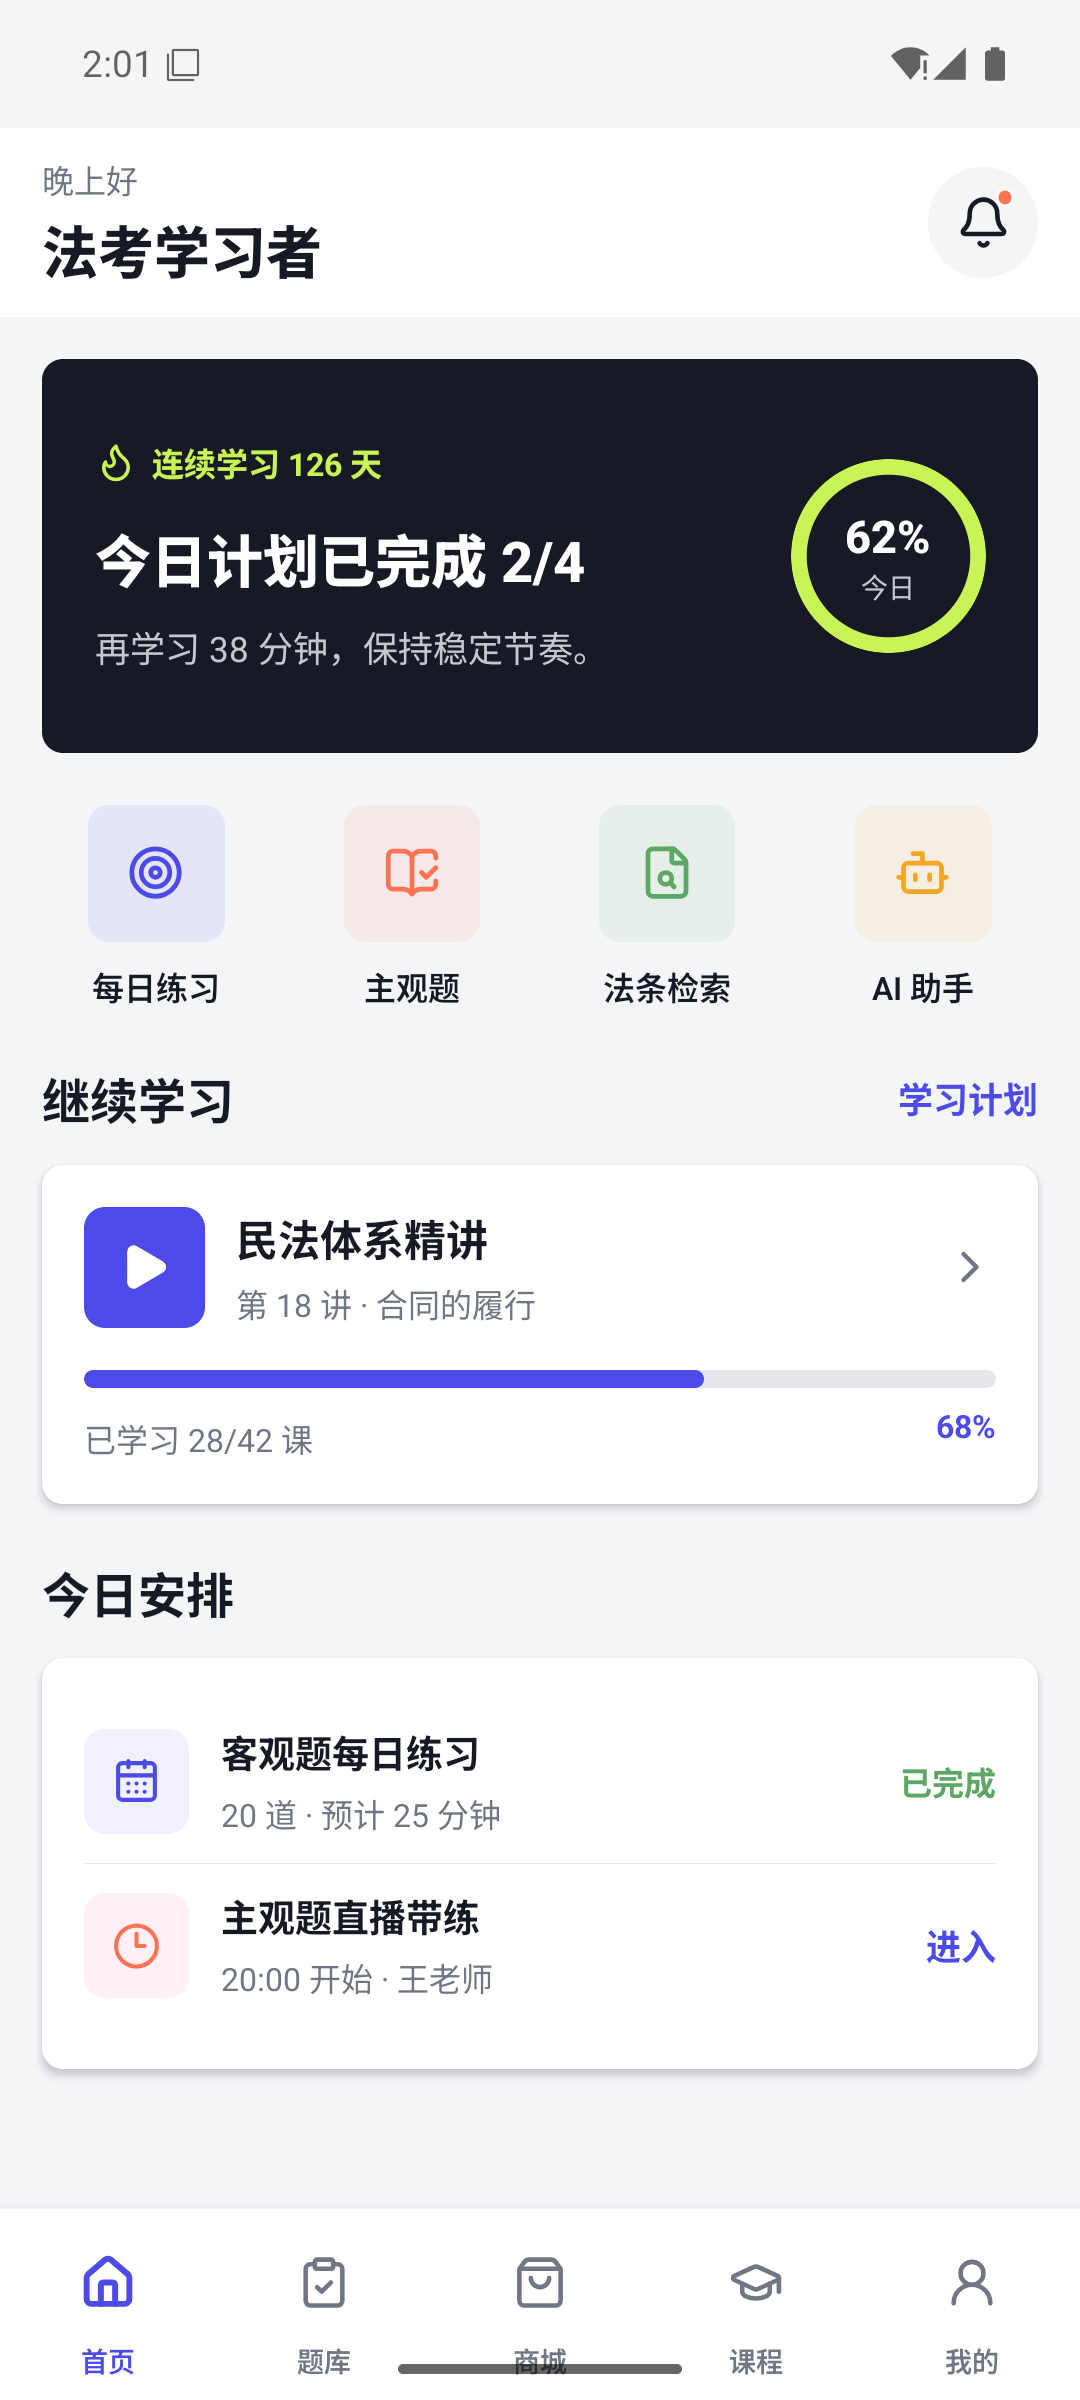
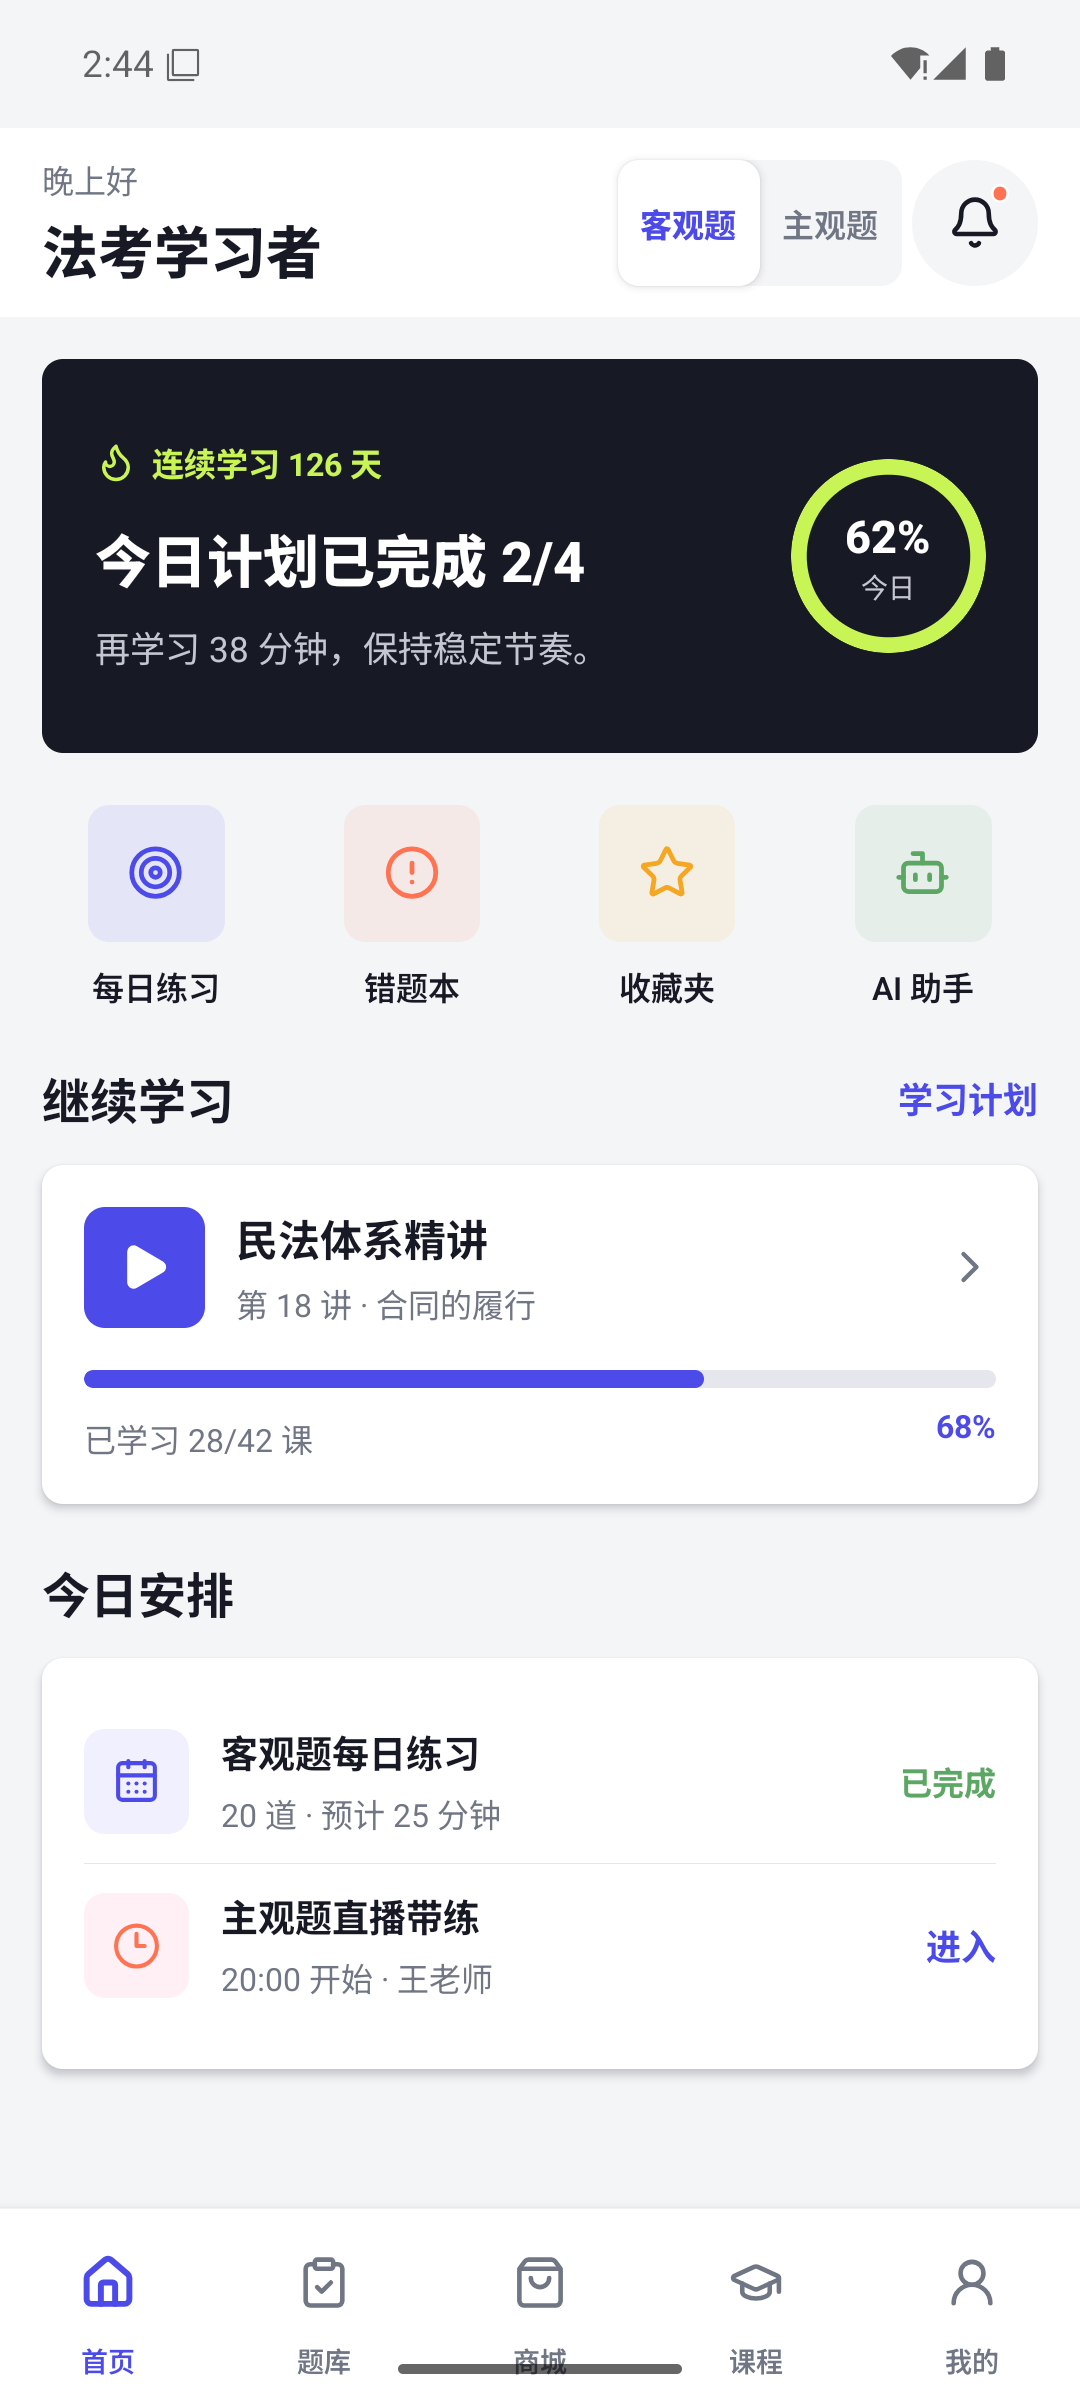
fix: restore home exam mode switch

diff --git a/debao-mobile/src/screens/tabs/HomeScreen.tsx b/debao-mobile/src/screens/tabs/HomeScreen.tsx
@@ -1,5 +1,7 @@
+import {useState} from 'react';
 import {Pressable, StyleSheet, Text, View, useWindowDimensions} from 'react-native';
 import {
+  AlertCircle,
   Bell,
   BookOpenCheck,
   Bot,
@@ -8,46 +10,78 @@ import {
   Clock3,
   FileSearch,
   Flame,
+  PenLine,
   Play,
+  Star,
   Target,
 } from 'lucide-react-native';
 import {useNavigation} from '@react-navigation/native';
 import type {NativeStackNavigationProp} from '@react-navigation/native-stack';
 import {AppScreen} from '@/components/AppScreen';
 import {Card, ProgressBar, SectionTitle} from '@/components/ui';
-import {colors, radius, spacing} from '@/theme';
+import {colors, radius, shadows, spacing} from '@/theme';
 import type {RootStackParamList} from '@/types/navigation';
 import {useAppStore} from '@/store/useAppStore';
 
 type Navigation = NativeStackNavigationProp<RootStackParamList>;
 
-const shortcuts = [
+const objectiveShortcuts = [
   {label: '每日练习', icon: Target, color: colors.brand, route: 'ObjectiveAnswer' as const},
-  {label: '主观题', icon: BookOpenCheck, color: colors.error, route: 'SubjectiveSelect' as const},
+  {label: '错题本', icon: AlertCircle, color: colors.error, route: 'MistakeBook' as const},
+  {label: '收藏夹', icon: Star, color: colors.warning, route: 'Favorites' as const},
+  {label: 'AI 助手', icon: Bot, color: colors.success, route: 'AIChat' as const},
+];
+
+const subjectiveShortcuts = [
+  {label: '主观题', icon: BookOpenCheck, color: colors.brand, route: 'SubjectiveSelect' as const},
   {label: '法条检索', icon: FileSearch, color: colors.success, route: 'LawSearch' as const},
+  {label: '批改服务', icon: PenLine, color: colors.error, route: 'Grading' as const},
   {label: 'AI 助手', icon: Bot, color: colors.warning, route: 'AIChat' as const},
 ];
 
 export default function HomeScreen() {
   const navigation = useNavigation<Navigation>();
+  const [channel, setChannel] = useState<'objective' | 'subjective'>('objective');
   const profile = useAppStore(state => state.profile);
   const {width} = useWindowDimensions();
   const compact = width < 360;
+  const shortcuts = channel === 'objective' ? objectiveShortcuts : subjectiveShortcuts;
 
   return (
     <AppScreen testID="home-screen">
       <View style={styles.header}>
-        <View>
+        <View style={styles.headerCopy}>
           <Text style={styles.eyebrow}>晚上好</Text>
-          <Text style={styles.greeting}>{profile.name}</Text>
+          <Text numberOfLines={1} style={[styles.greeting, compact && styles.greetingCompact]}>{profile.name}</Text>
         </View>
-        <Pressable
-          accessibilityLabel="消息通知"
-          onPress={() => navigation.navigate('Notifications')}
-          style={styles.notificationButton}>
-          <Bell size={21} color={colors.ink} />
-          <View style={styles.dot} />
-        </Pressable>
+        <View style={styles.headerActions}>
+          <View accessibilityRole="tablist" style={styles.modeSwitch}>
+            <Pressable
+              accessibilityRole="tab"
+              accessibilityState={{selected: channel === 'objective'}}
+              onPress={() => setChannel('objective')}
+              style={[styles.modeButton, channel === 'objective' && styles.modeButtonActive]}
+              testID="home-mode-objective">
+              <Text style={[styles.modeLabel, channel === 'objective' && styles.modeLabelActive]}>客观题</Text>
+            </Pressable>
+            <Pressable
+              accessibilityRole="tab"
+              accessibilityState={{selected: channel === 'subjective'}}
+              onPress={() => setChannel('subjective')}
+              style={[styles.modeButton, channel === 'subjective' && styles.modeButtonActive]}
+              testID="home-mode-subjective">
+              <Text style={[styles.modeLabel, channel === 'subjective' && styles.modeLabelActive]}>主观题</Text>
+            </Pressable>
+          </View>
+          <Pressable
+            accessibilityLabel="消息通知"
+            accessibilityRole="button"
+            onPress={() => navigation.navigate('Notifications')}
+            style={styles.notificationButton}>
+            <Bell size={21} color={colors.ink} />
+            <View style={styles.dot} />
+          </Pressable>
+        </View>
       </View>
 
       <View style={styles.content}>
@@ -132,11 +166,19 @@ export default function HomeScreen() {
 }
 
 const styles = StyleSheet.create({
-  header: {height: 72, paddingHorizontal: spacing.lg, backgroundColor: colors.surface, flexDirection: 'row', alignItems: 'center', justifyContent: 'space-between'},
+  header: {height: 72, paddingHorizontal: spacing.lg, backgroundColor: colors.surface, flexDirection: 'row', alignItems: 'center'},
+  headerCopy: {flex: 1, minWidth: 0, paddingRight: spacing.sm},
+  headerActions: {flexDirection: 'row', alignItems: 'center', gap: spacing.xs},
   eyebrow: {fontSize: 12, color: colors.muted},
   greeting: {fontSize: 21, fontWeight: '800', color: colors.ink, marginTop: 2},
-  notificationButton: {width: 42, height: 42, borderRadius: 21, backgroundColor: colors.page, alignItems: 'center', justifyContent: 'center'},
-  dot: {position: 'absolute', width: 7, height: 7, borderRadius: 4, backgroundColor: colors.error, right: 9, top: 8, borderWidth: 1, borderColor: colors.surface},
+  greetingCompact: {fontSize: 18},
+  modeSwitch: {height: 48, borderRadius: radius.md, backgroundColor: colors.page, flexDirection: 'row', alignItems: 'center'},
+  modeButton: {width: 54, height: 48, borderRadius: radius.md, alignItems: 'center', justifyContent: 'center'},
+  modeButtonActive: {backgroundColor: colors.surface, ...shadows.card},
+  modeLabel: {fontSize: 12, color: colors.muted, fontWeight: '600'},
+  modeLabelActive: {color: colors.brand, fontWeight: '800'},
+  notificationButton: {width: 48, height: 48, borderRadius: 24, backgroundColor: colors.page, alignItems: 'center', justifyContent: 'center'},
+  dot: {position: 'absolute', width: 7, height: 7, borderRadius: 4, backgroundColor: colors.error, right: 11, top: 9, borderWidth: 1, borderColor: colors.surface},
   content: {paddingHorizontal: spacing.lg},
   hero: {backgroundColor: colors.ink, borderRadius: radius.md, marginTop: spacing.lg, padding: spacing.xl, minHeight: 150, flexDirection: 'row', alignItems: 'center'},
   heroCopy: {flex: 1, paddingRight: spacing.md},

diff --git a/debao-mobile/docs/TESTING.md b/debao-mobile/docs/TESTING.md
@@ -50,7 +50,13 @@ pnpm harmony:bundle
 
 ### Android
 
-已在 `Debao_API_36`（Pixel 6、Android API 36、Google APIs x86_64）完成 Debug APK 构建、安装和冷启动。应用进程保持前台，logcat 无 JavaScript/Android Runtime 崩溃，首页视觉检查通过。截图：![Android 首页验证](screenshots/android-home-api36.png)
+已在 `Debao_API_36`（Pixel 6、Android API 36、Google APIs x86_64）完成 Debug APK 构建、安装和冷启动。应用进程保持前台，logcat 无 JavaScript/Android Runtime 崩溃，首页视觉检查通过。
+
+客观题状态：![Android 首页客观题状态](screenshots/android-home-api36.png)
+
+主观题状态：![Android 首页主观题状态](screenshots/android-home-subjective.png)
+
+右上角分段控件通过 UIAutomator 验证：默认“客观题”的 `selected` 为 true；点击“主观题”后选中态切换，并显示“主观题、法条检索、批改服务、AI 助手”四个对应入口。切换后应用进程保持存活且无崩溃日志。
 
 五 Tab 烟雾测试已通过：依次点击题库、商城、课程、我的和首页，UIAutomator 分别匹配到“客观题”“精选课程”“我的课程”“得宝 AI 学习助手”“法考学习者”，测试后应用进程保持存活且无崩溃日志。
 

diff --git a/debao-mobile/docs/PLATFORMS.md b/debao-mobile/docs/PLATFORMS.md
@@ -44,8 +44,9 @@
 3. Debug APK：`android/app/build/outputs/apk/debug/app-debug.apk`，包名 `com.debao.app`，应用名“得宝”。
 4. APK 已安装到 AVD `Debao_API_36`（Pixel 6、Android API 36、Google APIs x86_64、WHPX）。
 5. 冷启动后 `com.debao.app/.MainActivity` 保持前台，日志输出 `Running "DebaoMobile"`，未出现 JavaScript 或 Android Runtime 崩溃。
-6. 首页截图完成视觉检查：中文、图标、进度、内容卡片和底部导航正常，无空白或明显重叠。
-7. 五个主 Tab 依次点击通过，题库、商城、课程、我的和首页的唯一页面文案均匹配，切换后进程保持存活且无崩溃日志。
+6. 首页截图完成视觉检查：右上角主客观题切换、通知入口、中文、图标、进度、内容卡片和底部导航正常，无空白或明显重叠。
+7. 主客观题切换通过 UIAutomator 验证选中状态；主观题模式正确显示“主观题、法条检索、批改服务、AI 助手”四个入口。
+8. 五个主 Tab 依次点击通过，题库、商城、课程、我的和首页的唯一页面文案均匹配，切换后进程保持存活且无崩溃日志。
 
 截图证据：![Android API 36 首页](screenshots/android-home-api36.png)
 

diff --git a/debao-mobile/docs/PROGRESS.md b/debao-mobile/docs/PROGRESS.md
@@ -8,7 +8,7 @@
 
 | 项目 | 状态 | 验证结果 | 剩余问题 |
 |---|---|---|---|
-| 首页 | 已完成 | `Home` Tab 已注册；Android/iOS JS bundle 与 Harmony Hermes bundle 通过 | 需要三端真机视觉回归 |
+| 首页 | 已完成 | `Home` Tab 已注册；右上角主客观题分段切换会联动快捷入口；Android/iOS JS bundle 与 Harmony Hermes bundle 通过 | 需要 iOS/Harmony 真机视觉回归 |
 | 题库 | 已完成 | `Questions` Tab 已注册；主客观题入口可导航 | 真实题库接口未接入，当前使用 Mock 数据 |
 | 商城 | 已完成 | `Mall` Tab 已注册；可进入商品与订单流程 | 商品、库存、优惠和支付均需正式后端 |
 | 课程 | 已完成 | `Courses` Tab 已注册；可进入课程详情和媒体 UI | 真实课程、播放地址和授权未接入 |

diff --git a/debao-mobile/MIGRATION_REPORT.md b/debao-mobile/MIGRATION_REPORT.md
@@ -23,7 +23,7 @@ Figma Make 输出的 React Web 原型已迁移为 React Native Bare + TypeScript
 
 | 优先级 | Figma Make 页面 | React Native 页面/路由 | 状态 | 验证边界 |
 |---|---|---|---|---|
-| P0 | `Home.tsx` | `HomeScreen` / `Home` Tab | 已完成 | 路由、类型检查、三端 bundle |
+| P0 | `Home.tsx` | `HomeScreen` / `Home` Tab | 已完成 | 右上角主客观题切换、联动入口、路由、类型检查、三端 bundle |
 | P0 | `QuestionBank.tsx` | `QuestionBankScreen` / `Questions` Tab | 已完成 | 路由、类型检查、三端 bundle |
 | P0 | `Mall.tsx` | `MallScreen` / `Mall` Tab | 已完成 | 路由、类型检查、三端 bundle |
 | P0 | `Courses.tsx` | `CoursesScreen` / `Courses` Tab | 已完成 | 路由、类型检查、三端 bundle |
